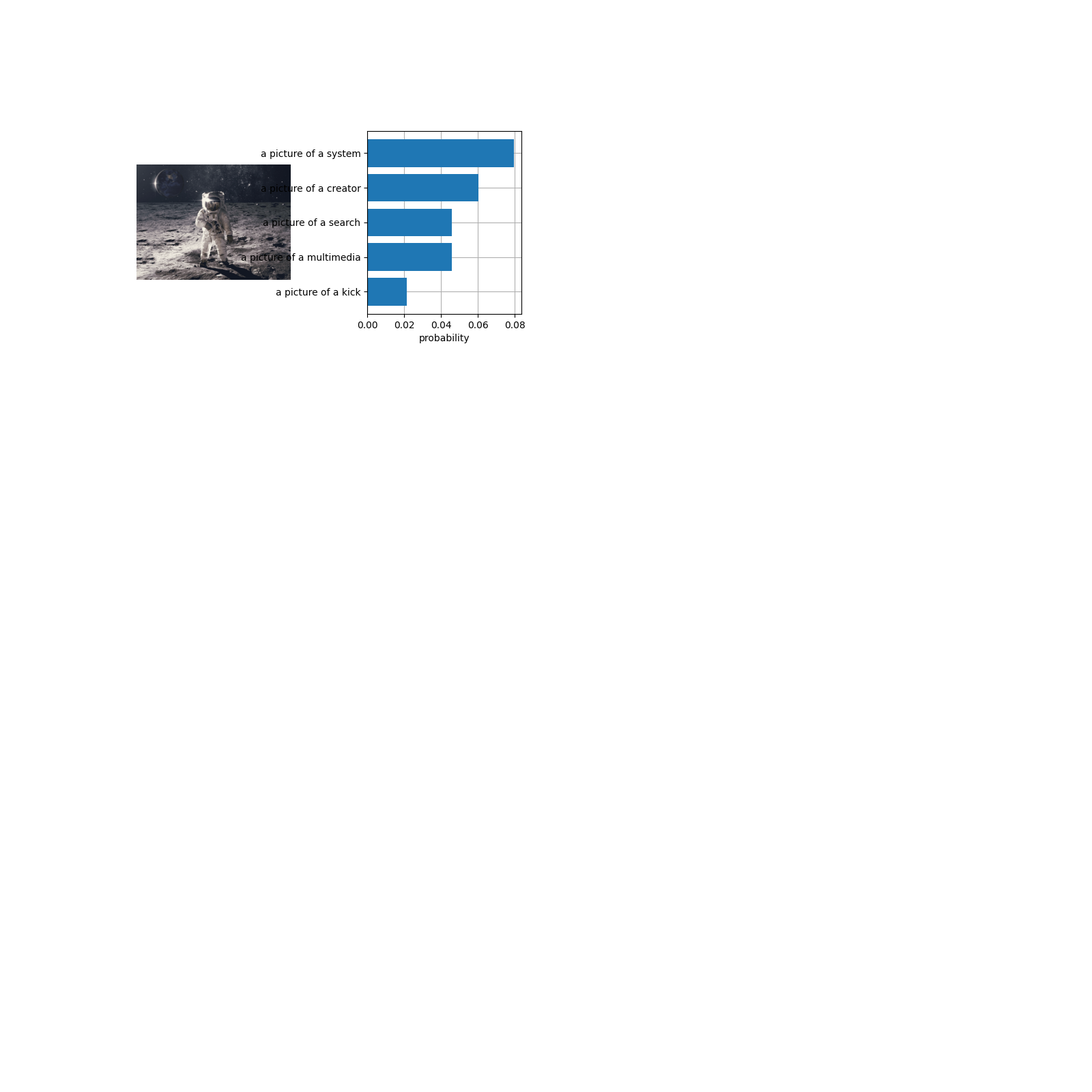
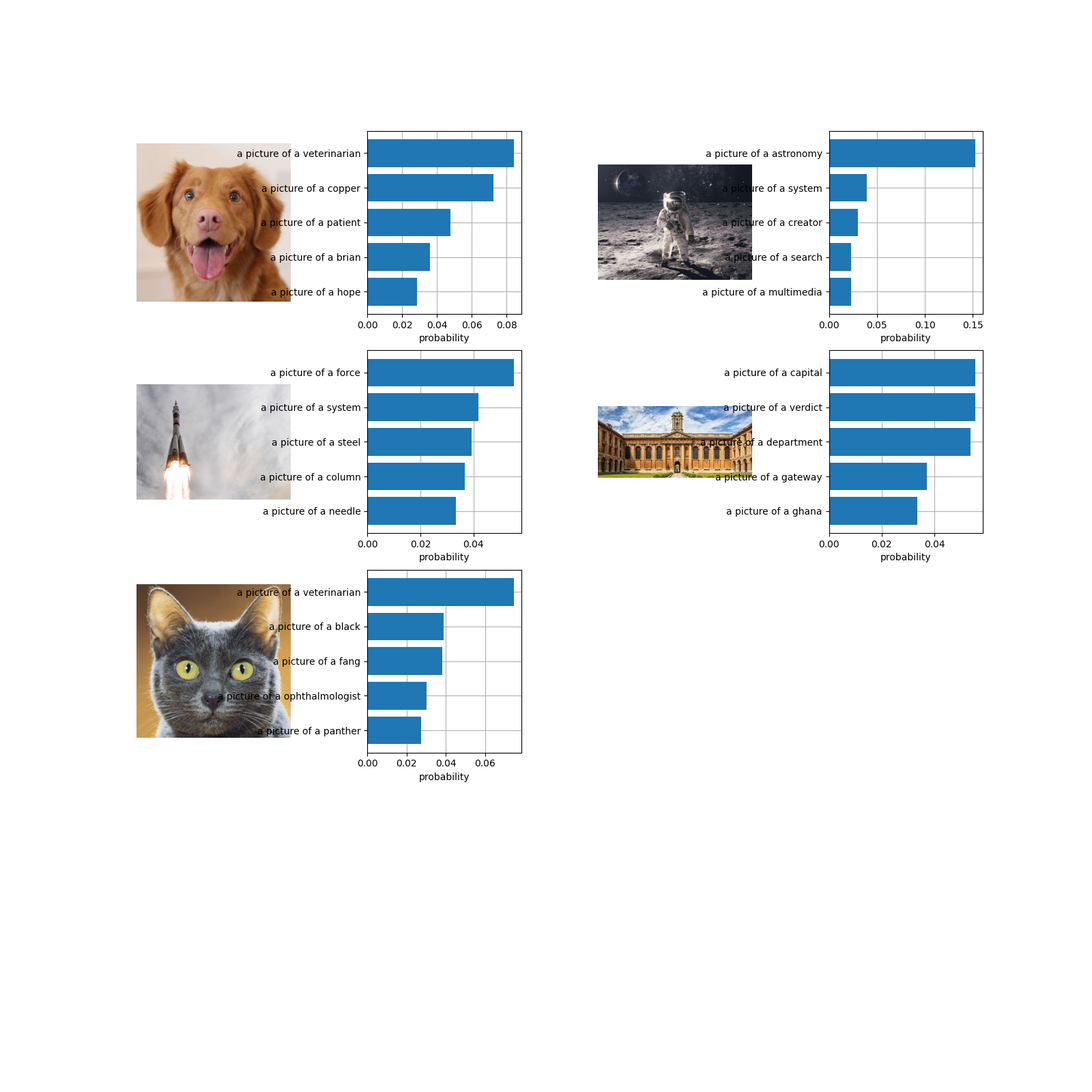
update CLIP class

diff --git a/server/noun_list.py b/server/noun_list.py
@@ -1,7 +1,5 @@
 def lots_of_classes():
     nouns = "aardvark abyssinian accelerator accordion account accountant acknowledgment acoustic acrylic act action active activity actor actress adapter addition address adjustment adult advantage advertisement advice afghanistan africa aftermath afternoon aftershave afterthought age agenda agreement air airbus airmail airplane airport airship alarm albatross alcohol algebra algeria alibi alley alligator alloy almanac alphabet alto aluminium aluminum ambulance america amount amusement anatomy anethesiologist anger angle angora animal anime ankle answer ant antarctica anteater antelope anthony anthropology apartment apology apparatus apparel appeal appendix apple appliance approval april aquarius arch archaeology archeology archer architecture area argentina argument aries arithmetic arm armadillo armchair armenian army arrow art ash ashtray asia asparagus asphalt asterisk astronomy athlete atm atom attack attempt attention attic attraction august aunt australia australian author authorisation authority authorization avenue babies baboon baby back backbone bacon badge badger bag bagel bagpipe bail bait baker bakery balance balinese ball balloon bamboo banana band bandana bangladesh bangle banjo bank bankbook banker bar barbara barber barge baritone barometer base baseball basement basin basket basketball bass bassoon bat bath bathroom bathtub battery battle bay beach bead beam bean bear beard beast beat beautician beauty beaver bed bedroom bee beech beef beer beet beetle beggar beginner begonia behavior belgian belief believe bell belt bench bengal beret berry bestseller betty bibliography bicycle bike bill billboard biology biplane birch bird birth birthday bit bite black bladder blade blanket blinker blizzard block blood blouse blow blowgun blue board boat bobcat body bolt bomb bomber bone bongo bonsai book bookcase booklet boot border botany bottle bottom boundary bow bowl bowling box boy bra brace bracket brain brake branch brand brandy brass brazil bread break breakfast breath brian brick bridge british broccoli brochure broker bronze brother brother-in-law brow brown brush bubble bucket budget buffer buffet bugle building bulb bull bulldozer bumper bun burglar burma burn burst bus bush business butane butcher butter button buzzard cabbage cabinet cable cactus cafe cake calculator calculus calendar calf call camel camera camp can canada canadian cancer candle cannon canoe canvas cap capital cappelletti capricorn captain caption car caravan carbon card cardboard cardigan care carnation carol carp carpenter carriage carrot cart cartoon case cast castanet cat catamaran caterpillar cathedral catsup cattle cauliflower cause caution cave c-clamp cd ceiling celery celeste cell cellar cello celsius cement cemetery cent centimeter century ceramic cereal certification chain chair chalk chance change channel character chard charles chauffeur check cheek cheese cheetah chef chemistry cheque cherries cherry chess chest chick chicken chicory chief child children chill chime chimpanzee chin china chinese chive chocolate chord christmas christopher chronometer church cicada cinema circle circulation cirrus citizenship city clam clarinet class claus clave clef clerk click client climb clipper cloakroom clock close closet cloth cloud cloudy clover club clutch coach coal coast coat cobweb cockroach cocktail cocoa cod coffee coil coin coke cold collar college collision colombia colon colony color colt column columnist comb comfort comic comma command commission committee community company comparison competition competitor composer composition computer condition condor cone confirmation conga congo conifer connection consonant continent control cook cooking copper copy copyright cord cork cormorant corn cornet correspondent cost cotton couch cougar cough country course court cousin cover cow cowbell crab crack cracker craftsman crate crawdad crayfish crayon cream creator creature credit creditor creek crib cricket crime criminal crocodile crocus croissant crook crop cross crow crowd crown crush cry cub cuban cucumber cultivator cup cupboard cupcake curler currency current curtain curve cushion custard customer cut cuticle cycle cyclone cylinder cymbal dad daffodil dahlia daisy damage dance dancer danger daniel dash dashboard database date daughter david day dead deadline deal death deborah debt debtor decade december decimal decision decrease dedication deer defense deficit degree delete delivery den denim dentist deodorant department deposit description desert design desire desk dessert destruction detail detective development dew diamond diaphragm dibble dictionary dietician difference digestion digger digital dill dime dimple dinghy dinner dinosaur diploma dipstick direction dirt disadvantage discovery discussion disease disgust dish distance distribution distributor diving division divorced dock doctor dog dogsled doll dollar dolphin domain donald donkey donna door dorothy double doubt downtown dragon dragonfly drain drake drama draw drawbridge drawer dream dredger dress dresser dressing drill drink drive driver driving drizzle drop drug drum dry dryer duck duckling dugout dungeon dust eagle ear earth earthquake ease east edge edger editor editorial education edward eel effect egg eggnog eggplant egypt eight elbow element elephant elizabeth ellipse emery employee employer encyclopedia end enemy energy engine engineer engineering english enquiry entrance environment epoch epoxy equinox equipment era error estimate ethernet ethiopia euphonium europe evening event examination example exchange exclamation exhaust ex-husband existence expansion experience expert explanation ex-wife eye eyebrow eyelash eyeliner face facilities fact factory fahrenheit fairies fall family fan fang farm farmer fat father father-in-law faucet fear feast feather feature february fedelini feedback feeling feet felony female fender ferry ferryboat fertilizer fiber fiberglass fibre fiction field fifth fight fighter file find fine finger fir fire fired fireman fireplace firewall fish fisherman flag flame flare flat flavor flax flesh flight flock flood floor flower flugelhorn flute fly foam fog fold font food foot football footnote force forecast forehead forest forgery fork form format fortnight foundation fountain fowl fox foxglove fragrance frame france freckle freeze freezer freighter french freon friction friday fridge friend frog front frost frown fruit fuel fur furniture galley gallon game gander garage garden garlic gas gasoline gate gateway gauge gazelle gear gearshift geese gemini gender geography geology geometry george geranium german germany ghana ghost giant giraffe girdle girl gladiolus glass glider gliding glockenspiel glove glue goal goat gold goldfish golf gondola gong good-bye goose gore-tex gorilla gosling government governor grade grain gram granddaughter grandfather grandmother grandson grape graphic grass grasshopper gray grease great-grandfather great-grandmother greece greek green grenade grey grill grip ground group grouse growth guarantee guatemalan guide guilty guitar gum gun gym gymnast hacksaw hail hair haircut half-brother half-sister halibut hall hallway hamburger hammer hamster hand handball handicap handle handsaw harbor hardboard hardcover hardhat hardware harmonica harmony harp hat hate hawk head headlight headline health hearing heart heat heaven hedge height helen helicopter helium hell helmet help hemp hen heron herring hexagon hill himalayan hip hippopotamus history hobbies hockey hoe hole holiday home honey hood hook hope horn horse hose hospital hot hour hourglass house hovercraft hub hubcap humidity humor hurricane hyacinth hydrant hydrofoil hydrogen hyena hygienic ice icebreaker icicle icon idea ikebana illegal imprisonment improvement impulse inch income increase index india indonesia industry ink innocent input insect instruction instrument insulation insurance interactive interest internet interviewer intestine invention inventory invoice iran iraq iris iron island israel italian italy jacket jaguar jail jam james january japan japanese jar jasmine jason jaw jeans jeep jeff jelly jellyfish jennifer jet jewel jogging john join joke joseph journey judge judo juice july jumbo jump jumper june jury justice jute kale kamikaze kangaroo karate karen kayak kendo kenneth kenya ketchup kettle kettledrum kevin key keyboard keyboarding kick kidney kilogram kilometer kimberly kiss kitchen kite kitten kitty knee knickers knife knight knot knowledge kohlrabi korean laborer lace ladybug lake lamb lamp lan land landmine language larch lasagna latency latex lathe laugh laundry laura law lawyer layer lead leaf learning leather leek leg legal lemonade lentil leo leopard letter lettuce level libra library license lier lift light lightning lilac lily limit linda line linen link lion lip lipstick liquid liquor lisa list literature litter liver lizard llama loaf loan lobster lock locket locust look loss lotion love low lumber lunch lunchroom lung lunge lute luttuce lycra lynx lyocell lyre lyric macaroni machine macrame magazine magic magician maid mail mailbox mailman makeup malaysia male mall mallet man manager mandolin manicure manx map maple maraca marble march margaret margin maria marimba mark mark market married mary mascara mask mass match math mattock may mayonnaise meal measure meat mechanic medicine meeting melody memory men menu mercury message metal meteorology meter methane mexican mexico mice michael michelle microwave middle mile milk milkshake millennium millimeter millisecond mimosa mind mine minibus mini-skirt minister mint minute mirror missile mist mistake mitten moat modem mole mom monday money monkey month moon morning morocco mosque mosquito mother mother-in-law motion motorboat motorcycle mountain mouse moustache mouth move multi-hop multimedia muscle museum music musician mustard myanmar nail name nancy napkin narcissus nation neck need needle neon nepal nephew nerve nest net network news newsprint newsstand nic nickel niece nigeria night nitrogen node noise noodle north north america north korea norwegian nose note notebook notify novel november number numeric nurse nut nylon oak oatmeal objective oboe observation occupation ocean ocelot octagon octave october octopus odometer offence offer office oil okra olive onion open opera operation ophthalmologist opinion option orange orchestra orchid order organ organisation organization ornament ostrich otter ounce output outrigger oval oven overcoat owl owner ox oxygen oyster package packet page pail pain paint pair pajama pakistan palm pamphlet pan pancake pancreas panda pansy panther panties pantry pants panty pantyhose paper paperback parade parallelogram parcel parent parentheses park parrot parsnip part particle partner partridge party passbook passenger passive pasta paste pastor pastry patch path patient patio patricia paul payment pea peace peak peanut pear pedestrian pediatrician peen peer-to-peer pelican pen penalty pencil pendulum pentagon peony pepper perch perfume period periodical peripheral permission persian person peru pest pet pharmacist pheasant philippines philosophy phone physician piano piccolo pickle picture pie pig pigeon pike pillow pilot pimple pin pine ping pink pint pipe pisces pizza place plain plane planet plant plantation plaster plasterboard plastic plate platinum play playground playroom pleasure plier plot plough plow plywood pocket poet point poison poland police policeman polish politician pollution polo polyester pond popcorn poppy population porch porcupine port porter position possibility postage postbox pot potato poultry pound powder power precipitation preface prepared pressure price priest print printer prison probation process processing produce product production professor profit promotion propane property prose prosecution protest protocol pruner psychiatrist psychology ptarmigan puffin pull puma pump pumpkin punch punishment puppy purchase purple purpose push pvc pyjama pyramid quail quality quart quarter quartz queen question quicksand quiet quill quilt quince quit quiver quotation rabbi rabbit racing radar radiator radio radish raft rail railway rain rainbow raincoat rainstorm rake ramie random range rat rate raven ravioli ray rayon reaction reading reason receipt recess record recorder rectangle red reduction refrigerator refund regret reindeer relation relative religion relish reminder repair replace report representative request resolution respect responsibility rest restaurant result retailer revolve revolver reward rhinoceros rhythm rice richard riddle rifle ring rise risk river riverbed road roadway roast robert robin rock rocket rod roll romania romanian ronald roof room rooster root rose rotate route router rowboat rub rubber rugby rule run russia russian rutabaga ruth sack sagittarius sail sailboat sailor salad salary sale salesman salmon salt sampan samurai sand sandra sandwich santa sarah sardine satin saturday sauce saudi arabia sausage save saw saxophone scale scallion scanner scarecrow scarf scene scent schedule school science scissors scooter scorpio scorpion scraper screen screw screwdriver sea seagull seal seaplane search seashore season seat second secretary secure security seed seeder segment select selection self semicircle semicolon sense sentence separated september servant server session sex shade shadow shake shallot shame shampoo shape share shark sharon shears sheep sheet shelf shell shield shingle ship shirt shock shoe shoemaker shop shorts shoulder shovel show shrimp shrine siamese siberian side sideboard sidecar sidewalk sign signature silica silk silver sing singer single sink sister sister-in-law size skate skiing skill skin skirt sky slash slave sled sleep sleet slice slime slip slipper slope smash smell smile smoke snail snake sneeze snow snowboarding snowflake snowman snowplow snowstorm soap soccer society sociology sock soda sofa softball softdrink software soil soldier son song soprano sort sound soup sousaphone south africa south america south korea soy soybean space spade spaghetti spain spandex spark sparrow spear specialist speedboat sphere sphynx spider spike spinach spleen sponge spoon spot spring sprout spruce spy square squash squid squirrel stage staircase stamp star start starter state statement station statistic steam steel stem step step-aunt step-brother stepdaughter step-daughter step-father step-grandfather step-grandmother stepmother step-mother step-sister stepson step-son step-uncle steven stew stick stinger stitch stock stocking stomach stone stool stop stopsign stopwatch store storm story stove stranger straw stream street streetcar stretch string structure study sturgeon submarine substance subway success sudan suede sugar suggestion suit summer sun sunday sundial sunflower sunshine supermarket supply support surfboard surgeon surname surprise susan sushi swallow swamp swan sweater sweatshirt sweatshop swedish sweets swim swimming swing swiss switch sword swordfish sycamore syria syrup system table tablecloth tabletop tachometer tadpole tail tailor taiwan talk tank tanker tanzania target taste taurus tax taxi taxicab tea teacher teaching team technician teeth television teller temper temperature temple tempo tendency tennis tenor tent territory test text textbook texture thailand theater theory thermometer thing thistle thomas thought thread thrill throat throne thumb thunder thunderstorm thursday ticket tie tiger tights tile timbale time timer timpani tin tip tire titanium title toad toast toe toenail toilet tomato tom-tom ton tongue tooth toothbrush toothpaste top tornado tortellini tortoise touch tower town toy tractor trade traffic trail train tramp transaction transmission transport trapezoid tray treatment tree trial triangle trick trigonometry trip trombone trouble trousers trout trowel truck trumpet trunk t-shirt tsunami tub tuba tuesday tugboat tulip tuna tune turkey turkey turkish turn turnip turnover turret turtle tv twig twilight twine twist typhoon tyvek uganda ukraine ukrainian umbrella uncle underclothes underpants undershirt underwear unit united kingdom unshielded use utensil uzbekistan vacation vacuum valley value van vase vault vegetable vegetarian veil vein velvet venezuela venezuelan verdict vermicelli verse vessel vest veterinarian vibraphone vietnam view vinyl viola violet violin virgo viscose vise vision visitor voice volcano volleyball voyage vulture waiter waitress walk wall wallaby wallet walrus war warm wash washer wasp waste watch watchmaker water waterfall wave wax way wealth weapon weasel weather wedge wednesday weed weeder week weight whale wheel whip whiskey whistle white wholesaler whorl wilderness william willow wind windchime window windscreen windshield wine wing winter wire wish witch withdrawal witness wolf woman women wood wool woolen word work workshop worm wound wrecker wren wrench wrinkle wrist writer xylophone yacht yak yam yard yarn year yellow yew yogurt yoke yugoslavian zebra zephyr zinc zipper zone zoo zoology"
     nouns = nouns.split(" ")
-    return ["a picture of a " + x for x in nouns[0::10]] # divides by 10 to get about 230
+    return ["a picture of a " + x for x in nouns[0::10]] # divides by n to get about 230
     # return ["a drawing of a " + x for x in nouns]
-
-    #  nouns = "aardvark abyssinian accelerator accordion account accountant acknowledgment acoustic acrylic act action active activity actor actress adapter addition address adjustment adult advantage advertisement advice afghanistan africa aftermath afternoon aftershave afterthought age agenda agreement air airbus airmail airplane airport airship alarm albatross alcohol algebra algeria alibi alley alligator alloy almanac alphabet alto aluminium aluminum ambulance america amount amusement anatomy anethesiologist anger angle angora animal anime ankle answer ant antarctica anteater antelope anthony anthropology apartment apology apparatus apparel appeal appendix apple appliance approval april aquarius arch archaeology archeology archer architecture area argentina argument aries arithmetic arm armadillo armchair armenian army arrow art ash ashtray asia asparagus asphalt asterisk astronomy athlete atm atom attack attempt attention attic attraction august aunt australia australian author authorisation authority authorization avenue babies baboon baby back backbone bacon badge badger bag bagel bagpipe bail bait baker bakery balance balinese ball balloon bamboo banana band bandana bangladesh bangle banjo bank bankbook banker bar barbara barber barge baritone barometer base baseball basement basin basket basketball bass bassoon bat bath bathroom bathtub battery battle bay beach bead beam bean bear beard beast beat beautician beauty beaver bed bedroom bee beech beef beer beet beetle beggar beginner begonia behavior belgian belief believe bell belt bench bengal beret berry bestseller betty bibliography bicycle bike bill billboard biology biplane birch bird birth birthday bit bite black bladder blade blanket blinker blizzard block blood blouse blow blowgun blue board boat bobcat body bolt bomb bomber bone bongo bonsai book bookcase booklet boot border botany bottle bottom boundary bow bowl bowling box boy bra brace bracket brain brake branch brand brandy brass brazil bread break breakfast breath brian brick bridge british broccoli brochure broker bronze brother brother-in-law brow brown brush bubble bucket budget buffer buffet bugle building bulb bull bulldozer bumper bun burglar burma burn burst bus bush business butane butcher butter button buzzard cabbage cabinet cable cactus cafe cake calculator calculus calendar calf call camel camera camp can canada canadian cancer candle cannon canoe canvas cap capital cappelletti capricorn captain caption car caravan carbon card cardboard cardigan care carnation carol carp carpenter carriage carrot cart cartoon case cast castanet cat catamaran caterpillar cathedral catsup cattle cauliflower cause caution cave c-clamp cd ceiling celery celeste cell cellar cello celsius cement cemetery cent centimeter century ceramic cereal certification chain chair chalk chance change channel character chard charles chauffeur check cheek cheese cheetah chef chemistry cheque cherries cherry chess chest chick chicken chicory chief child children chill chime chimpanzee chin china chinese chive chocolate chord christmas christopher chronometer church cicada cinema circle circulation cirrus citizenship city clam clarinet class claus clave clef clerk click client climb clipper cloakroom clock close closet cloth cloud cloudy clover club clutch coach coal coast coat cobweb cockroach cocktail cocoa cod coffee coil coin coke cold collar college collision colombia colon colony color colt column columnist comb comfort comic comma command commission committee community company comparison competition competitor composer composition computer condition condor cone confirmation conga congo conifer connection consonant continent control cook cooking copper copy copyright cord cork cormorant corn cornet correspondent cost cotton couch cougar cough country course court cousin cover cow cowbell crab crack cracker craftsman crate crawdad crayfish crayon cream creator creature credit creditor creek crib cricket crime criminal crocodile crocus croissant crook crop cross crow crowd crown crush cry cub cuban cucumber cultivator cup cupboard cupcake curler currency current curtain curve cushion custard customer cut cuticle cycle cyclone cylinder cymbal dad daffodil dahlia daisy damage dance dancer danger daniel dash dashboard database date daughter david day dead deadline deal death deborah debt debtor decade december decimal decision decrease dedication deer defense deficit degree delete delivery den denim dentist deodorant department deposit description desert design desire desk dessert destruction detail detective development dew diamond diaphragm dibble dictionary dietician difference digestion digger digital dill dime dimple dinghy dinner dinosaur diploma dipstick direction dirt disadvantage discovery discussion disease disgust dish distance distribution distributor diving division divorced dock doctor dog dogsled doll dollar dolphin domain donald donkey donna door dorothy double doubt downtown dragon dragonfly drain drake drama draw drawbridge drawer dream dredger dress dresser dressing drill drink drive driver driving drizzle drop drug drum dry dryer duck duckling dugout dungeon dust eagle ear earth earthquake ease east edge edger editor editorial education edward eel effect egg eggnog eggplant egypt eight elbow element elephant elizabeth ellipse emery employee employer encyclopedia end enemy energy engine engineer engineering english enquiry entrance environment epoch epoxy equinox equipment era error estimate ethernet ethiopia euphonium europe evening event examination example exchange exclamation exhaust ex-husband existence expansion experience expert explanation ex-wife eye eyebrow eyelash eyeliner face facilities fact factory fahrenheit fairies fall family fan fang farm farmer fat father father-in-law faucet fear feast feather feature february fedelini feedback feeling feet felony female fender ferry ferryboat fertilizer fiber fiberglass fibre fiction field fifth fight fighter file find fine finger fir fire fired fireman fireplace firewall fish fisherman flag flame flare flat flavor flax flesh flight flock flood floor flower flugelhorn flute fly foam fog fold font food foot football footnote force forecast forehead forest forgery fork form format fortnight foundation fountain fowl fox foxglove fragrance frame france freckle freeze freezer freighter french freon friction friday fridge friend frog front frost frown fruit fuel fur furniture galley gallon game gander garage garden garlic gas gasoline gate gateway gauge gazelle gear gearshift geese gemini gender geography geology geometry george geranium german germany ghana ghost giant giraffe girdle girl gladiolus glass glider gliding glockenspiel glove glue goal goat gold goldfish golf gondola gong good-bye goose gore-tex gorilla gosling government governor grade grain gram granddaughter grandfather grandmother grandson grape graphic grass grasshopper gray grease great-grandfather great-grandmother greece greek green grenade grey grill grip ground group grouse growth guarantee guatemalan guide guilty guitar gum gun gym gymnast hacksaw hail hair haircut half-brother half-sister halibut hall hallway hamburger hammer hamster hand handball handicap handle handsaw harbor hardboard hardcover hardhat hardware harmonica harmony harp hat hate hawk head headlight headline health hearing heart heat heaven hedge height helen helicopter helium hell helmet help hemp hen heron herring hexagon hill himalayan hip hippopotamus history hobbies hockey hoe hole holiday home honey hood hook hope horn horse hose hospital hot hour hourglass house hovercraft hub hubcap humidity humor hurricane hyacinth hydrant hydrofoil hydrogen hyena hygienic ice icebreaker icicle icon idea ikebana illegal imprisonment improvement impulse inch income increase index india indonesia industry ink innocent input insect instruction instrument insulation insurance interactive interest internet interviewer intestine invention inventory invoice iran iraq iris iron island israel italian italy jacket jaguar jail jam james january japan japanese jar jasmine jason jaw jeans jeep jeff jelly jellyfish jennifer jet jewel jogging john join joke joseph journey judge judo juice july jumbo jump jumper june jury justice jute kale kamikaze kangaroo karate karen kayak kendo kenneth kenya ketchup kettle kettledrum kevin key keyboard keyboarding kick kidney kilogram kilometer kimberly kiss kitchen kite kitten kitty knee knickers knife knight knot knowledge kohlrabi korean laborer lace ladybug lake lamb lamp lan land landmine language larch lasagna latency latex lathe laugh laundry laura law lawyer layer lead leaf learning leather leek leg legal lemonade lentil leo leopard letter lettuce level libra library license lier lift light lightning lilac lily limit linda line linen link lion lip lipstick liquid liquor lisa list literature litter liver lizard llama loaf loan lobster lock locket locust look loss lotion love low lumber lunch lunchroom lung lunge lute luttuce lycra lynx lyocell lyre lyric macaroni machine macrame magazine magic magician maid mail mailbox mailman makeup malaysia male mall mallet man manager mandolin manicure manx map maple maraca marble march margaret margin maria marimba mark mark market married mary mascara mask mass match math mattock may mayonnaise meal measure meat mechanic medicine meeting melody memory men menu mercury message metal meteorology meter methane mexican mexico mice michael michelle microwave middle mile milk milkshake millennium millimeter millisecond mimosa mind mine minibus mini-skirt minister mint minute mirror missile mist mistake mitten moat modem mole mom monday money monkey month moon morning morocco mosque mosquito mother mother-in-law motion motorboat motorcycle mountain mouse moustache mouth move multi-hop multimedia muscle museum music musician mustard myanmar nail name nancy napkin narcissus nation neck need needle neon nepal nephew nerve nest net network news newsprint newsstand nic nickel niece nigeria night nitrogen node noise noodle north north america north korea norwegian nose note notebook notify novel november number numeric nurse nut nylon oak oatmeal objective oboe observation occupation ocean ocelot octagon octave october octopus odometer offence offer office oil okra olive onion open opera operation ophthalmologist opinion option orange orchestra orchid order organ organisation organization ornament ostrich otter ounce output outrigger oval oven overcoat owl owner ox oxygen oyster package packet page pail pain paint pair pajama pakistan palm pamphlet pan pancake pancreas panda pansy panther panties pantry pants panty pantyhose paper paperback parade parallelogram parcel parent parentheses park parrot parsnip part particle partner partridge party passbook passenger passive pasta paste pastor pastry patch path patient patio patricia paul payment pea peace peak peanut pear pedestrian pediatrician peen peer-to-peer pelican pen penalty pencil pendulum pentagon peony pepper perch perfume period periodical peripheral permission persian person peru pest pet pharmacist pheasant philippines philosophy phone physician piano piccolo pickle picture pie pig pigeon pike pillow pilot pimple pin pine ping pink pint pipe pisces pizza place plain plane planet plant plantation plaster plasterboard plastic plate platinum play playground playroom pleasure plier plot plough plow plywood pocket poet point poison poland police policeman polish politician pollution polo polyester pond popcorn poppy population porch porcupine port porter position possibility postage postbox pot potato poultry pound powder power precipitation preface prepared pressure price priest print printer prison probation process processing produce product production professor profit promotion propane property prose prosecution protest protocol pruner psychiatrist psychology ptarmigan puffin pull puma pump pumpkin punch punishment puppy purchase purple purpose push pvc pyjama pyramid quail quality quart quarter quartz queen question quicksand quiet quill quilt quince quit quiver quotation rabbi rabbit racing radar radiator radio radish raft rail railway rain rainbow raincoat rainstorm rake ramie random range rat rate raven ravioli ray rayon reaction reading reason receipt recess record recorder rectangle red reduction refrigerator refund regret reindeer relation relative religion relish reminder repair replace report representative request resolution respect responsibility rest restaurant result retailer revolve revolver reward rhinoceros rhythm rice richard riddle rifle ring rise risk river riverbed road roadway roast robert robin rock rocket rod roll romania romanian ronald roof room rooster root rose rotate route router rowboat rub rubber rugby rule run russia russian rutabaga ruth sack sagittarius sail sailboat sailor salad salary sale salesman salmon salt sampan samurai sand sandra sandwich santa sarah sardine satin saturday sauce saudi arabia sausage save saw saxophone scale scallion scanner scarecrow scarf scene scent schedule school science scissors scooter scorpio scorpion scraper screen screw screwdriver sea seagull seal seaplane search seashore season seat second secretary secure security seed seeder segment select selection self semicircle semicolon sense sentence separated september servant server session sex shade shadow shake shallot shame shampoo shape share shark sharon shears sheep sheet shelf shell shield shingle ship shirt shock shoe shoemaker shop shorts shoulder shovel show shrimp shrine siamese siberian side sideboard sidecar sidewalk sign signature silica silk silver sing singer single sink sister sister-in-law size skate skiing skill skin skirt sky slash slave sled sleep sleet slice slime slip slipper slope smash smell smile smoke snail snake sneeze snow snowboarding snowflake snowman snowplow snowstorm soap soccer society sociology sock soda sofa softball softdrink software soil soldier son song soprano sort sound soup sousaphone south africa south america south korea soy soybean space spade spaghetti spain spandex spark sparrow spear specialist speedboat sphere sphynx spider spike spinach spleen sponge spoon spot spring sprout spruce spy square squash squid squirrel stage staircase stamp star start starter state statement station statistic steam steel stem step step-aunt step-brother stepdaughter step-daughter step-father step-grandfather step-grandmother stepmother step-mother step-sister stepson step-son step-uncle steven stew stick stinger stitch stock stocking stomach stone stool stop stopsign stopwatch store storm story stove stranger straw stream street streetcar stretch string structure study sturgeon submarine substance subway success sudan suede sugar suggestion suit summer sun sunday sundial sunflower sunshine supermarket supply support surfboard surgeon surname surprise susan sushi swallow swamp swan sweater sweatshirt sweatshop swedish sweets swim swimming swing swiss switch sword swordfish sycamore syria syrup system table tablecloth tabletop tachometer tadpole tail tailor taiwan talk tank tanker tanzania target taste taurus tax taxi taxicab tea teacher teaching team technician teeth television teller temper temperature temple tempo tendency tennis tenor tent territory test text textbook texture thailand theater theory thermometer thing thistle thomas thought thread thrill throat throne thumb thunder thunderstorm thursday ticket tie tiger tights tile timbale time timer timpani tin tip tire titanium title toad toast toe toenail toilet tomato tom-tom ton tongue tooth toothbrush toothpaste top tornado tortellini tortoise touch tower town toy tractor trade traffic trail train tramp transaction transmission transport trapezoid tray treatment tree trial triangle trick trigonometry trip trombone trouble trousers trout trowel truck trumpet trunk t-shirt tsunami tub tuba tuesday tugboat tulip tuna tune turkey turkey turkish turn turnip turnover turret turtle tv twig twilight twine twist typhoon tyvek uganda ukraine ukrainian umbrella uncle underclothes underpants undershirt underwear unit united kingdom unshielded use utensil uzbekistan vacation vacuum valley value van vase vault vegetable vegetarian veil vein velvet venezuela venezuelan verdict vermicelli verse vessel vest veterinarian vibraphone vietnam view vinyl viola violet violin virgo viscose vise vision visitor voice volcano volleyball voyage vulture waiter waitress walk wall wallaby wallet walrus war warm wash washer wasp waste watch watchmaker water waterfall wave wax way wealth weapon weasel weather wedge wednesday weed weeder week weight whale wheel whip whiskey whistle white wholesaler whorl wilderness william willow wind windchime window windscreen windshield wine wing winter wire wish witch withdrawal witness wolf woman women wood wool woolen word work workshop worm wound wrecker wren wrench wrinkle wrist writer xylophone yacht yak yam yard yarn year yellow yew yogurt yoke yugoslavian zebra zephyr zinc zipper zone zoo zoology"

diff --git a/server/factory.py b/server/factory.py
@@ -1,9 +1,4 @@
 import os
-from io import BytesIO
-import matplotlib
-matplotlib.use('agg') # non interactive with fast api
-
-from matplotlib import pyplot as plt
 from PIL import Image
 import numpy as np
 import clip
@@ -12,6 +7,8 @@ import torch
 
 from clip_util import enable_gpu, load_model_defaults, run_preprocess
 from noun_list import lots_of_classes
+
+import logging
 class CLIP:
     """Init clip, then configure the classifier type, then set the required img/class/prompt parameters"""
     def __init__(self):
@@ -24,43 +21,53 @@ class CLIP:
         
         self.model = model
         self.preprocess = preprocess
-        print("Model ready")
+        logging.info("Model ready")
         return (model, preprocess)
 
     def set_image_descriptions(self, description_map):
         self.descriptions = dict(description_map)
         return self.descriptions
 
-    def convert_local_images(self, image_dir_path):
-        local_images = []
+    def classify_named_images_by_description(self, image_dir_path):
+        """Only use if self.descriptions is set so the named image descriptions are converted to classes"""
+        unprocessed_images = []
         rgb_images = []
         classes = []
-
         for filename in [filename for filename in os.listdir(image_dir_path) if filename.endswith(".png") or filename.endswith(".jpg")]:
             name = os.path.splitext(filename)[0]
             if name not in self.descriptions: # how to use without name?
                 continue #skip by restarting next for iteration
-
             image = Image.open(os.path.join(image_dir_path, filename)).convert("RGB")
-
-            local_images.append(image)
+            unprocessed_images.append(image)
             rgb_images.append(self.preprocess(image))
             classes.append(self.descriptions[name])
-
-        self.set_local_images(local_images)
+        self.set_unprocessed_images(unprocessed_images)
         self.set_processed_images(rgb_images)
         self.set_clip_classes(classes) # set of descriptions
+
+    def classify_images_zero_shot(self, image_dir_path):
+        """Image name not required because we use all the noun classes. Could add option to only read a subset of named images."""
+        unprocessed_images = []
+        rgb_images = []
+        if (len(os.listdir(image_dir_path)) > 1) : logging.error("No files in directory") 
+        for filename in [filename for filename in os.listdir(image_dir_path) if filename.endswith(".png") or filename.endswith(".jpg")]:
+            image = Image.open(os.path.join(image_dir_path, filename)).convert("RGB")
+            unprocessed_images.append(image)
+            rgb_images.append(self.preprocess(image))
+        self.set_unprocessed_images(unprocessed_images)
+        self.set_processed_images(rgb_images)
+        self.create_zero_shot_image_classifier()
 
     def set_clip_classes(self, class_list):
         self.classes = class_list
 
-    def set_local_images(self, local_images):
-        self.local_images = local_images
+    def set_unprocessed_images(self, unprocessed_images):
+        self.unprocessed_images = unprocessed_images
 
     def set_processed_images(self, processed_images):
         self.images_rgb = processed_images # as tensors
 
-    def encode_images_from_local(self, img_tensor):
+    def encode_image_tensors(self, img_tensor):
         image_input = torch.tensor(img_tensor)
         with torch.no_grad():
             image_features = self.model.encode_image(image_input).float().cpu()
@@ -76,54 +83,14 @@ class CLIP:
         self.text_features = text_features / text_features.norm(dim=-1, keepdim=True)
         return self.text_features
 
-    def get_cosine_simalarity(self, text_features, image_features):
+    def cosine_similarity(self, text_features, image_features):
         return text_features.cpu().numpy() @ image_features.cpu().numpy().T
-
-    def plot_test(self, similarity):
-        count = len(self.descriptions)
-        plt.figure(figsize=(20, 14))
-        plt.imshow(similarity, vmin=0.1, vmax=0.3)
-        # plt.colorbar()
-        plt.yticks(range(count), self.classes, fontsize=18)
-        plt.xticks([])
-        for i, image in enumerate(self.local_images):
-            plt.imshow(image, extent=(i - 0.5, i + 0.5, -1.6, -0.6), origin="lower")
-        for x in range(similarity.shape[1]):
-            for y in range(similarity.shape[0]):
-                plt.text(x, y, f"{similarity[y, x]:.2f}", ha="center", va="center", size=12)
-
-        for side in ["left", "top", "right", "bottom"]:
-            plt.gca().spines[side].set_visible(False)
-
-        plt.xlim([-0.5, count - 0.5])
-        plt.ylim([count + 0.5, -2])
-
-        plt.title("Cosine similarity between text and image features", size=20)
-        plt.savefig('my_plot.png')
 
     def create_zero_shot_image_classifier(self):
         classes = lots_of_classes()
         self.encode_text_classes(classes)
         text_probs = (100.0 * self.image_features @ self.text_features.T).softmax(dim=-1)
         top_probs, top_labels = text_probs.cpu().topk(5, dim=-1)
-        plt.figure(figsize=(16, 16))
-
-        for i, image in enumerate(self.local_images):
-            plt.subplot(4, 4, 2 * i + 1)
-            plt.imshow(image)
-            plt.axis("off")
-
-            plt.subplot(4, 4, 2 * i + 2)
-            y = np.arange(top_probs.shape[-1])
-            plt.grid()
-            plt.barh(y, top_probs[i])
-            plt.gca().invert_yaxis()
-            plt.gca().set_axisbelow(True)
-            plt.yticks(y, [classes[index] for index in top_labels[i].numpy()])
-            plt.xlabel("probability")
-
-        plt.subplots_adjust(wspace=0.5)
-        plt.savefig('zero-shot-classify.png')
 
     # def create_image_classifier(self, similarity):
     #     values, indices = similarity[0].topk(5)
@@ -149,7 +116,7 @@ class Image_Classifier:
     def get_similar_images_image(self):
         return
 
-    def use_local_images(self):
+    def use_unprocessed_images(self):
         return
 
     def use_gan_image(self):

diff --git a/server/main.py b/server/main.py
@@ -5,6 +5,11 @@ from factory import CLIP
 
 import skimage
 import numpy as np
+import logging
+from plot_util import plot_cosines, plot_zero_shot_images
+
+# add filename='logs.log'
+logging.basicConfig(encoding='utf-8', level=logging.DEBUG, format=f'APP LOGGING: %(levelname)s %(name)s %(threadName)s : %(message)s')
 
 app = FastAPI()
 clip_factory = CLIP()
@@ -12,9 +17,9 @@ clip_factory = CLIP()
 @app.get("/")
 def read_root():
     """Requires at least one image for each class so an image is classifed"""
-    clip_factory.set_image_descriptions({
+    # clip_factory.set_image_descriptions({
     # "chelsea": "a facial photo of a tabby cat",
-    "astronaut": "a portrait of an astronaut with the American flag",
+    # "astronaut": "a portrait of an astronaut with the American flag",
     # "rocket": "a rocket standing on a launchpad",
     # "university": "a picture of higher education",
     # "page": "a page of text about segmentation",
@@ -22,16 +27,17 @@ def read_root():
     # "camera": "a person looking at a camera on a tripod",
     # "horse": "a black-and-white silhouette of a horse", 
     # "coffee": "a cup of coffee on a saucer"
-    })
+    # })
 
-    clip_factory.convert_local_images("local_images")
-    # clip_factory.convert_local_images(skimage.data_dir)
+    clip_factory.convert_unprocessed_images_zero_shot("local_images") # or skimage.data_dir
 
-    image_features = clip_factory.encode_images_from_local(np.stack(clip_factory.images_rgb)) 
-    # text_features = clip_factory.encode_text_classes(["This is " + desc for desc in clip_factory.classes])
-    # similarity = clip_factory.get_cosine_simalarity(text_features, image_features)
-    # clip_factory.plot_test(similarity)
-    clip_factory.create_zero_shot_image_classifier()
+    image_features = clip_factory.encode_image_tensors(np.stack(clip_factory.images_rgb)) 
+    text_features = clip_factory.encode_text_classes(["This is " + desc for desc in clip_factory.classes])
+    similarity = clip_factory.cosine_similarity(text_features, image_features)
+    
+    plot_cosines(len(clip_factory.descriptions), clip_factory.unprocessed_images, similarity)
+    plot_zero_shot_images(similarity)
+
     return {"Hello": "World"}
 
 

diff --git a/server/plot_util.py b/server/plot_util.py
@@ -1,0 +1,43 @@
+import matplotlib
+matplotlib.use('agg') # non interactive with fast api
+
+from matplotlib import pyplot as plt
+
+def plot_cosines(descriptions, images, similarity):
+    plt.figure(figsize=(20, 14))
+    plt.imshow(similarity, vmin=0.1, vmax=0.3)
+    # plt.colorbar()
+    plt.yticks(range(count), self.classes, fontsize=18)
+    plt.xticks([])
+    for i, image in enumerate(images):
+        plt.imshow(image, extent=(i - 0.5, i + 0.5, -1.6, -0.6), origin="lower")
+    for x in range(similarity.shape[1]):
+        for y in range(similarity.shape[0]):
+            plt.text(x, y, f"{similarity[y, x]:.2f}", ha="center", va="center", size=12)
+
+    for side in ["left", "top", "right", "bottom"]:
+        plt.gca().spines[side].set_visible(False)
+
+    plt.xlim([-0.5, count - 0.5])
+    plt.ylim([count + 0.5, -2])
+
+    plt.title("Cosine similarity between text and image features", size=20)
+    plt.savefig('my_plot.png')
+
+def plot_zero_shot_images(images):
+    plt.figure(figsize=(16, 16))
+    for i, image in enumerate(images):
+        plt.subplot(4, 4, 2 * i + 1)
+        plt.imshow(image)
+        plt.axis("off")
+
+        plt.subplot(4, 4, 2 * i + 2)
+        y = np.arange(top_probs.shape[-1])
+        plt.grid()
+        plt.barh(y, top_probs[i])
+        plt.gca().invert_yaxis()
+        plt.gca().set_axisbelow(True)
+        plt.yticks(y, [classes[index] for index in top_labels[i].numpy()])
+        plt.xlabel("probability")
+    plt.subplots_adjust(wspace=0.5)
+    plt.savefig('zero-shot-classify.png')

diff --git a/server/clip_util.py b/server/clip_util.py
@@ -1,25 +1,26 @@
 import numpy as np
 import torch
 import clip
+import logging
 
 def enable_gpu():
     # do an enviromnet check here
-    print("Torch version:", torch.__version__)
+    logging.info(f"Torch version: {torch.__version__}")
     assert torch.__version__.split(".") >= ["1", "7", "1"], "PyTorch 1.7.1 or later is required"
     return
 
 def load_model_defaults():
-    print(f"Select from these models: \n{clip.available_models()}")
+    logging.info(f"Select from these models: \n{clip.available_models()}")
     model, preprocess = clip.load("ViT-B/32")
     # model.cuda().eval()
     input_resolution = model.visual.input_resolution
     context_length = model.context_length
     vocab_size = model.vocab_size
 
-    print("Model parameters:", f"{np.sum([int(np.prod(p.shape)) for p in model.parameters()]):,}")
-    print("Input resolution:", input_resolution)
-    print("Context length:", context_length)
-    print("Vocab size:", vocab_size)
+    logging.info(f"Model parameters: {np.sum([int(np.prod(p.shape)) for p in model.parameters()]):,}")
+    logging.info(f"Input resolution: {input_resolution}")
+    logging.info(f"Context length: {context_length}")
+    logging.info(f"Vocab size: {vocab_size}")
     return model, preprocess
 
 def run_preprocess(preprocess):

diff --git a/server/README.md b/server/README.md
@@ -1,0 +1,9 @@
+# BE Web Application/Server Code
+
+Fast api prevents a business logic layer to interact for processing input from the web interface frontend. The server instantiates the CLIP model and can be configured as an image classifier or text classifier. Outputs come in the form of images or classes and can be fed back to the CLIP handler as new inputs.
+
+## Image Classification
+
+Given an image or set of images, CLIP returns the likely classes of the images. This can be used as a zero-shot classifier with 2000 classes, or by manually setting a group of classes each with at least one corresponding image. Additionally, we can load selected images by name, or load all given images.
+
+## Text Classification
